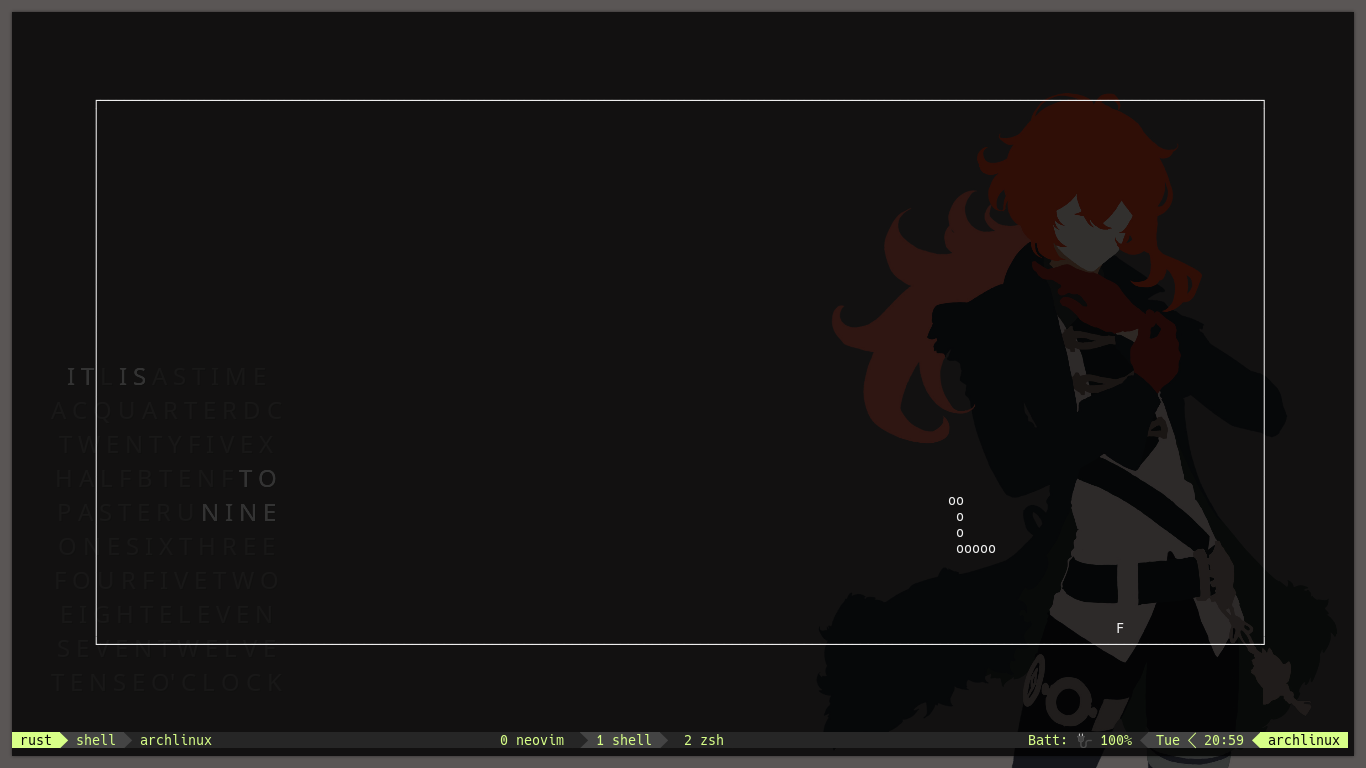
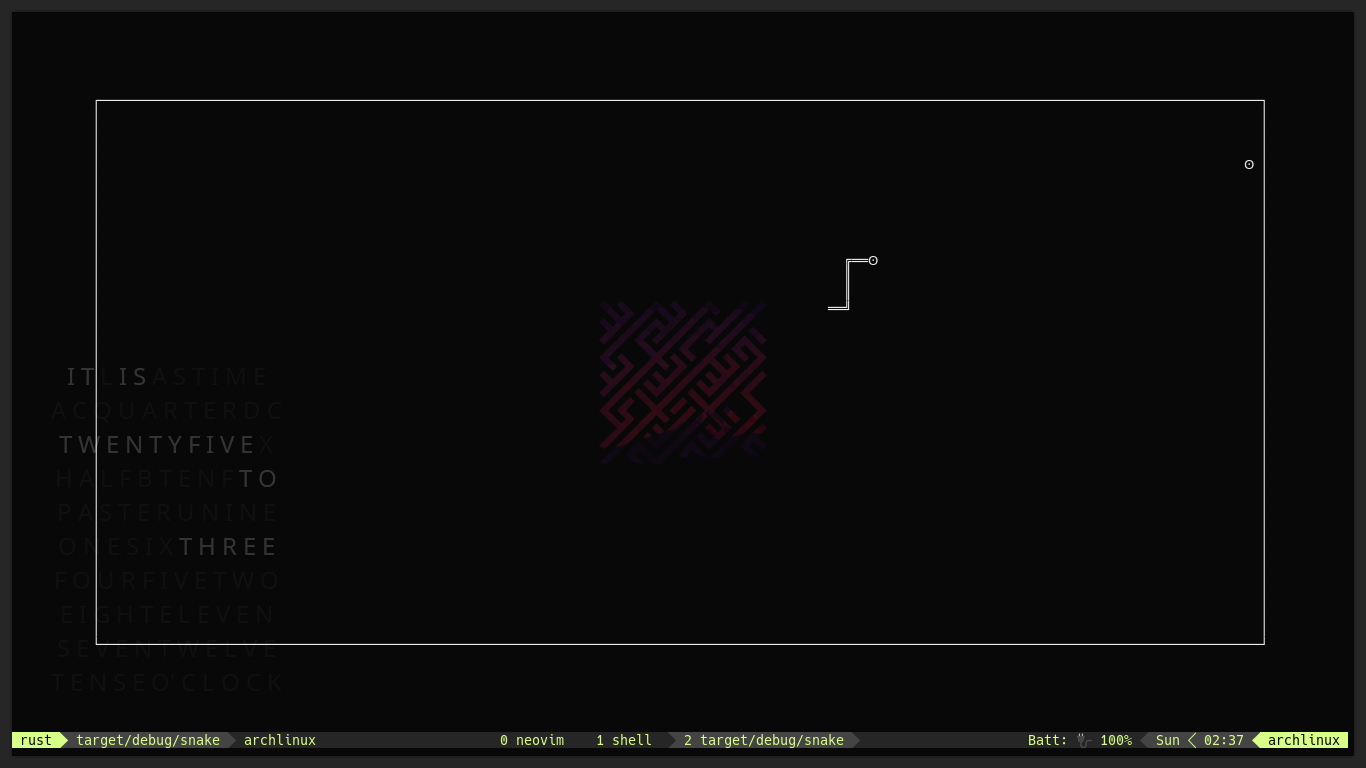
Add unicode snake printing
Removed a lot of unused and commented code

diff --git a/src/game/frontend.rs b/src/game/frontend.rs
@@ -10,8 +10,6 @@ pub fn game_window(mlines: i32, mcols: i32, vmargin: i32, hmargin: i32) -> WINDO
     let (starty, startx): (i32, i32);
     lines = mlines - vmargin * 2;
     cols = mcols - hmargin * 2;
-    // starty = (mlines - lines) / 2;
-    // startx = (mcols - cols) / 2;
     starty = vmargin;
     startx = hmargin;
     game_win = newwin(lines, cols, starty, startx);
@@ -41,54 +39,67 @@ pub fn draw_snake(snake: &Snake, game_win: WINDOW) {
     // So I'll need to know the last and next cell of the snake to draw the current snake_cell
     // For some reason the snake goes invisible after the first food
     prev = snake_iter.next().unwrap(); // currently this should be head. On initial run this should be the only snake_cell
-    mvwaddstr(game_win, prev.posyx().0, prev.posyx().1, &format!("H"));
+    mvwaddstr(
+        game_win,
+        prev.posyx().0,
+        prev.posyx().1,
+        &format!("{}", std::char::from_u32(0x0298).unwrap_or('O')),
+    );
     let _current = snake_iter.next();
-    // current = match _current {
-    //     Some(cell) => cell,
-    //     None => return,
-    // };
-    if _current.is_some() {
-        current = _current.unwrap();
-    } else {
-        return;
-    } // the match is equivalent to this block of code
-      // this should be none in the initial run
-      // as of now this will panic as soon as the game starts
-      // I need to match this with Some(Cell) and None and if
-      // none then just straight exit from the function
-
-    // The head is never in current so the head is not being printed as of now
+    current = match _current {
+        Some(cell) => cell,
+        None => return,
+    };
     for next in snake_iter {
         // O(n) the whole snake is redrawn every single tick
         let (snake_l, snake_c): (i32, i32) = current.posyx();
         // mvwaddstr(game_win, snake_l, snake_c, "o");
-        let snake_char = match (
+        let snake_char: u32 = match (
             prev.is_adjacent(current).unwrap(),
             next.is_adjacent(current).unwrap(),
         ) {
-            (Direction::Up, Direction::Down) | (Direction::Down, Direction::Up) => "║", //186, //boxdraw double vertical line ║ code 186
-            (Direction::Up, Direction::Left) | (Direction::Left, Direction::Left) => "╝", //188, // ╝
-            (Direction::Up, Direction::Right) | (Direction::Right, Direction::Up) => "╚", //200, // ╚
-            (Direction::Down, Direction::Left) | (Direction::Left, Direction::Down) => "╗", //187, // ╗
-            (Direction::Down, Direction::Right) | (Direction::Right, Direction::Down) => "╔", //,201, // ╔
-            (Direction::Left, Direction::Right) | (Direction::Right, Direction::Left) => "═", //205 ═
-            _ => " ",
+            (Direction::Up, Direction::Down) | (Direction::Down, Direction::Up) => 0x2551, //"║"
+            (Direction::Up, Direction::Left) | (Direction::Left, Direction::Up) => 0x255d, //"╝"
+            (Direction::Up, Direction::Right) | (Direction::Right, Direction::Up) => 0x255a, //"╚"
+            (Direction::Down, Direction::Left) | (Direction::Left, Direction::Down) => 0x2557, // "╗"
+            (Direction::Down, Direction::Right) | (Direction::Right, Direction::Down) => 0x2554, //"╔"
+            (Direction::Left, Direction::Right) | (Direction::Right, Direction::Left) => 0x2550, //"═"
+            _ => 0x20,
         };
         mvwaddstr(
-            game_win, snake_l, snake_c, // &format!("{}", snake_char as char),
-            // &format!("{}", snake_char),
-            "o",
+            game_win,
+            snake_l,
+            snake_c,
+            &format!("{}", std::char::from_u32(snake_char).unwrap_or('o')),
         );
         prev = current;
         current = next;
     }
-    mvwaddstr(game_win, current.posyx().0, current.posyx().1, "t");
+
+    mvwaddstr(
+        game_win,
+        current.posyx().0,
+        current.posyx().1,
+        &format!(
+            "{}",
+            std::char::from_u32(match current.is_adjacent(prev).unwrap() {
+                Direction::Up | Direction::Down => 0x2551,
+                Direction::Left | Direction::Right => 0x2550,
+            })
+            .unwrap_or('o')
+        ),
+    );
     wrefresh(game_win);
 }
 
 pub fn draw_board(board: &Board, game_win: WINDOW) {
     let (food_l, food_c): (i32, i32) = board.food_posyx();
-    mvwaddstr(game_win, food_l, food_c, "F");
+    mvwaddstr(
+        game_win,
+        food_l,
+        food_c,
+        &format!("{}", std::char::from_u32(0x0298).unwrap_or('F')),
+    );
 }
 
 pub fn _log(snake: &Snake, board: &Board) {
@@ -96,26 +107,16 @@ pub fn _log(snake: &Snake, board: &Board) {
     let (bfl, bfc): (i32, i32) = board.food_posyx();
     mvwaddstr(stdscr(), 0, 0, &format!("snake:head: {} {} ", shl, shc));
     mvwaddstr(stdscr(), 1, 0, &format!("board:food: {} {} ", bfl, bfc));
-    // mvwaddstr(
-    //     stdscr(),
-    //     2,
-    //     0,
-    //     &format!(
-    //         "board:maxlines {} maxcols {}",
-    //         board.maxlines, board.maxcols
-    //     ),
-    // );
-
     wmove(stdscr(), 2, 0);
     for snake_cell in snake.iter() {
-        let (scl, scc): (i32, i32) = snake_cell.posyx();
-        waddstr(stdscr(), &format!("cell: {} {} ", scl, scc));
+        waddstr(
+            stdscr(),
+            &format!(
+                "<cell y:{} x:{}>",
+                snake_cell.posyx().0,
+                snake_cell.posyx().1
+            ),
+        );
     }
-    mvwaddstr(
-        stdscr(),
-        3,
-        0,
-        &format!("snake_size {}", snake.iter().size_hint().0),
-    );
     wrefresh(stdscr());
 }

diff --git a/src/game/backend.rs b/src/game/backend.rs
@@ -5,6 +5,7 @@ use std::collections::LinkedList;
 use std::ops::Sub;
 use std::thread::sleep;
 use std::time::Duration;
+#[derive(Debug)]
 pub enum Direction {
     Up,
     Down,
@@ -39,6 +40,20 @@ impl Direction {
         }
     }
 }
+#[derive(Debug)]
+// impl std::fmt::Debug for Direction {
+//     fn fmt(&self, f: &mut std::fmt::Formatter<'_>) -> std::fmt::Result {
+//         // write!(f,)
+//         write!(
+//             f,
+//             "{}",
+//             match *self {
+//                 Self::Up => (),
+//                 _ => (),
+//             }
+//         );
+//     }
+// }
 
 pub enum CellType {
     Food,
@@ -89,10 +104,10 @@ impl Cell {
     }
     pub fn is_adjacent(&self, other: &Cell) -> Option<Direction> {
         match *self - *other {
-            (0, 1) => Some(Direction::Left),
+            (0, 1) => Some(Direction::Right),
             (1, 0) => Some(Direction::Down),
-            (-1, 0) => Some(Direction::Right),
-            (0, -1) => Some(Direction::Up),
+            (-1, 0) => Some(Direction::Up),
+            (0, -1) => Some(Direction::Left),
             _ => None,
         }
     }

diff --git a/src/main.rs b/src/main.rs
@@ -5,11 +5,13 @@ mod menu;
 // use game::{Cell, Snake};
 // use ncurses::*;
 use ncurses::{
-    curs_set, endwin, getmaxyx, initscr, keypad, noecho, raw, refresh, stdscr, CURSOR_VISIBILITY,
+    curs_set, endwin, getmaxyx, initscr, keypad, noecho, raw, refresh, setlocale, stdscr,
+    LcCategory, CURSOR_VISIBILITY,
 };
 
 fn main() {
     // let (lines, cols): (i32, i32) = (0, 0);
+    setlocale(LcCategory::all, "");
     initscr();
     raw();
     keypad(stdscr(), true);
@@ -17,10 +19,6 @@ fn main() {
     noecho();
     let (mut mlines, mut mcols): (i32, i32) = (0, 0);
     getmaxyx(stdscr(), &mut mlines, &mut mcols);
-    // let (mlines, mcols) = match getmaxyx(stdscr()) {
-    //     Ok(size) => (size.lines, size.columns),
-    //     Err(e) => panic!(e),
-    // };
     if (mlines < 20) || (mcols < 35) {
         refresh();
         endwin();

diff --git a/src/game/mod.rs b/src/game/mod.rs
@@ -24,7 +24,7 @@ pub fn start() {
     loop {
         frontend::draw_snake(&snake, game_win); // always draw snake before board because the snake will clear the game win
         frontend::draw_board(&board, game_win);
-        frontend::_log(&snake, &board);
+        // frontend::_log(&snake, &board);
         if board.check_collision(&snake) {
             // Add stuff here to show the score and
             // how You lose screen

diff --git a/README.md b/README.md
@@ -1,4 +1,4 @@
-## Snake in rust using [ncurses](https://docs.rs/ncurses)
+## Snake in rust using [ncurses](https://docs.rs/ncurses) crate
 
 The game is playable
 
@@ -18,7 +18,19 @@ esc or p to pause
 
 Click the image for asciinema
 
-[<img src="images/screenshot.png" width="650" />](https://asciinema.org/a/PtMG7dghPAEZ7tNgx70sKplKq?autoplay=1)
+[<img src="images/screenshot.png" width="650" />](https://asciinema.org/a/FVB1DZmA7lVK4BILFkzkreMQ9?autoplay=1)
+
+#### Need unicode support in terminal to print the snake
+
+The unicode characters used are:
+
+- 0x0298 ʘ
+- 0x2550 ═
+- 0x2551 ║
+- 0x2554 ╔
+- 0x2557 ╗
+- 0x255a ╚
+- 0x255d ╝
 
 #### Todo :construction:
 
@@ -28,13 +40,16 @@ Click the image for asciinema
 - [ ] Implement Highscore System
   - [ ] Make the ui
   - [ ] Internal Implementation
+- [x] Use unicode charachters to draw the snake
 
 #### Bugs :bug:
 
 - ~~Snake going through the walls~~
 - ~~Food spawning in the walls~~
+- ~~Boxdraw characters not rendering properly~~
 - Remove all the logging in the ui
 - Pausing delayed if esc is pressed but not if p is pressed.
+- The game flickers a lot after sometime (probably due to the constant redrawing of the whole board every tick)
 
 #### Maybe in the future
 
@@ -42,19 +57,32 @@ Click the image for asciinema
 
 #### Notes
 
-A few notes about the complexity of the game and how I should improve the game
+A few notes about the game and how I should improve the game
 
 <details>
-<summary>Read More</summary>
+<summary>A few notes about time complexity and redrawing with ncurses</summary>
 
-The complexity of the program is O(n) every tick (time which changes relative to the speed)
+> The complexity of the program is O(n) every tick (time which changes relative to the speed)
 
-However the place, I can improve is the redrawing of the game
+> However the place, I can improve is the redrawing of the game
 
-As of commit
-<a href="https://github.com/uttarayan21/snake/commit/de66f7d249a56f883dd632598a4178b1bd1320ba">f9be68e</a>
-the game redraws the total board and the total snake every tick.
+> At the time of writing the in commit
+> <a href="https://github.com/uttarayan21/snake/commit/de66f7d249a56f883dd632598a4178b1bd1320ba">f9be68e</a>
+> the game still redraws the total board and the total snake every tick.
 
-I think this can be improved by only drawing the parts of the snake and the board when needed
+> I think this can be improved by only drawing the parts of the snake and the board when needed
+
+</details>
+<br>
+
+<details>
+
+<summary>Rust specific stuff I learned</summary>
+
+> [char](https://doc.rust-lang.org/stable/std/primitive.char.html) and [std::char](https://doc.rust-lang.org/stable/std/char/index.html) are different
+
+> [char](https://doc.rust-lang.org/stable/std/primitive.char.html) is the primitive type [std::char](https://doc.rust-lang.org/stable/std/char/index.html) is the char module. All the functions are not completely same for both (as of rust v1.49.0)
+
+> [ncursesw](httsp://docs.rs/ncursesw) is not needed to print unicode characters. I have no clue where I got that idea from.
 
 </details>
